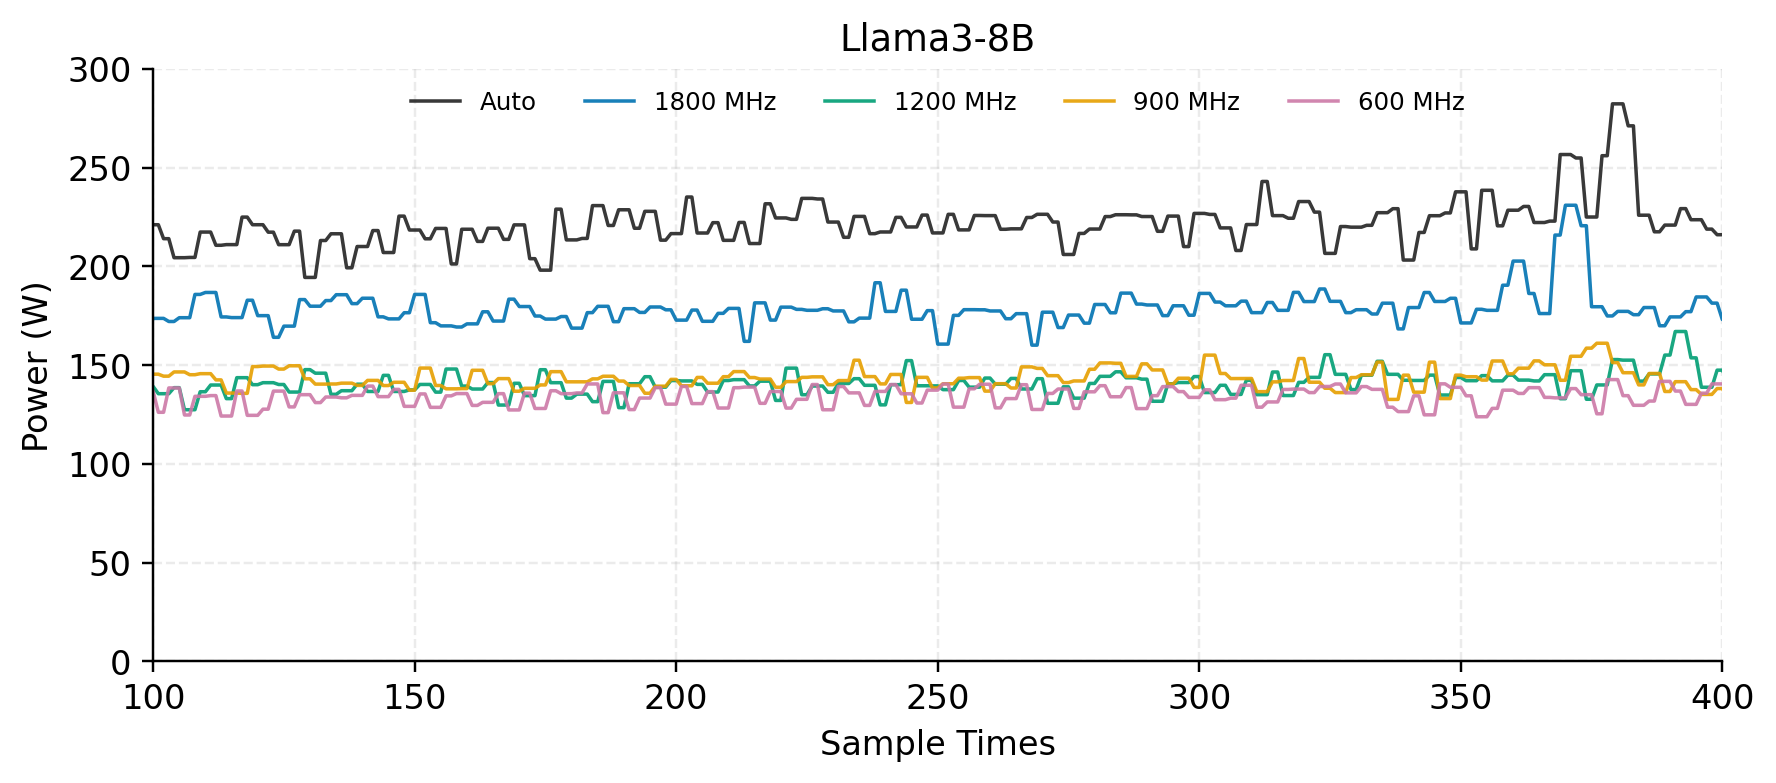
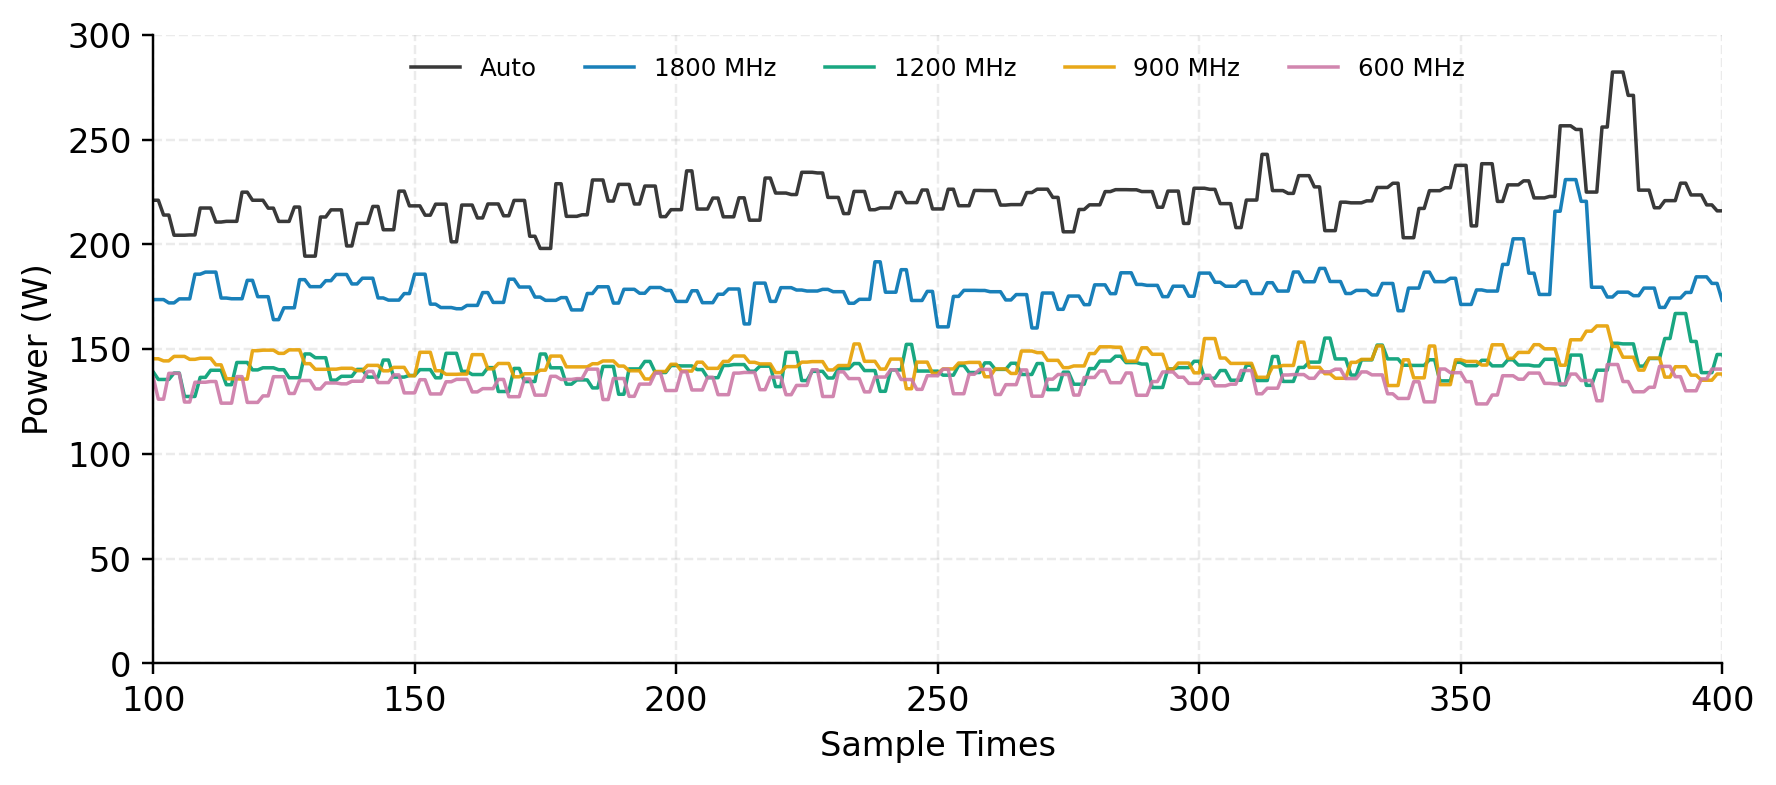
Remove Fig 6 plot title

diff --git a/figures/hcw_figures/fig6_sharegpt_sarathi_bs256_20261018/plot.py b/figures/hcw_figures/fig6_sharegpt_sarathi_bs256_20261018/plot.py
@@ -89,8 +89,7 @@ def main():
     top = 25 * math.ceil(max(power for trace in traces.values()
                              for sample, power in trace
                              if SAMPLE_RANGE[0] <= sample <= SAMPLE_RANGE[1]) / 25)
-    ax.set(title="Llama3-8B",
-           xlabel="Sample Times", ylabel="Power (W)",
+    ax.set(xlabel="Sample Times", ylabel="Power (W)",
            xlim=SAMPLE_RANGE, ylim=(0, top))
     ax.grid(ls="--", alpha=0.25)
     ax.legend(ncol=5, fontsize=8, loc="upper center", frameon=False)

diff --git a/figures/hcw_figures/fig6_sharegpt_sarathi_bs256_20261018/README.md b/figures/hcw_figures/fig6_sharegpt_sarathi_bs256_20261018/README.md
@@ -4,8 +4,8 @@
 Auto, 1800, 1200, 900, and 600 MHz. The x-axis label is “Sample Times” and
 denotes the sample index within each run's inference window; the y axis is
 measured instantaneous GPU power in watts. The plotted interval is sample
-indices 100–400, and the only title is “Llama3-8B”. Curves are not smoothed
-or aligned in time. The CSV preserves the full inference traces.
+indices 100–400, with no plot title. Curves are not smoothed or aligned in
+time. The CSV preserves the full inference traces.
 
 Samples come from physical RTX 3090 GPU index 5, pipeline Stage 1, and are
 restricted to the `measurement.json` inference start/end timestamps. The
